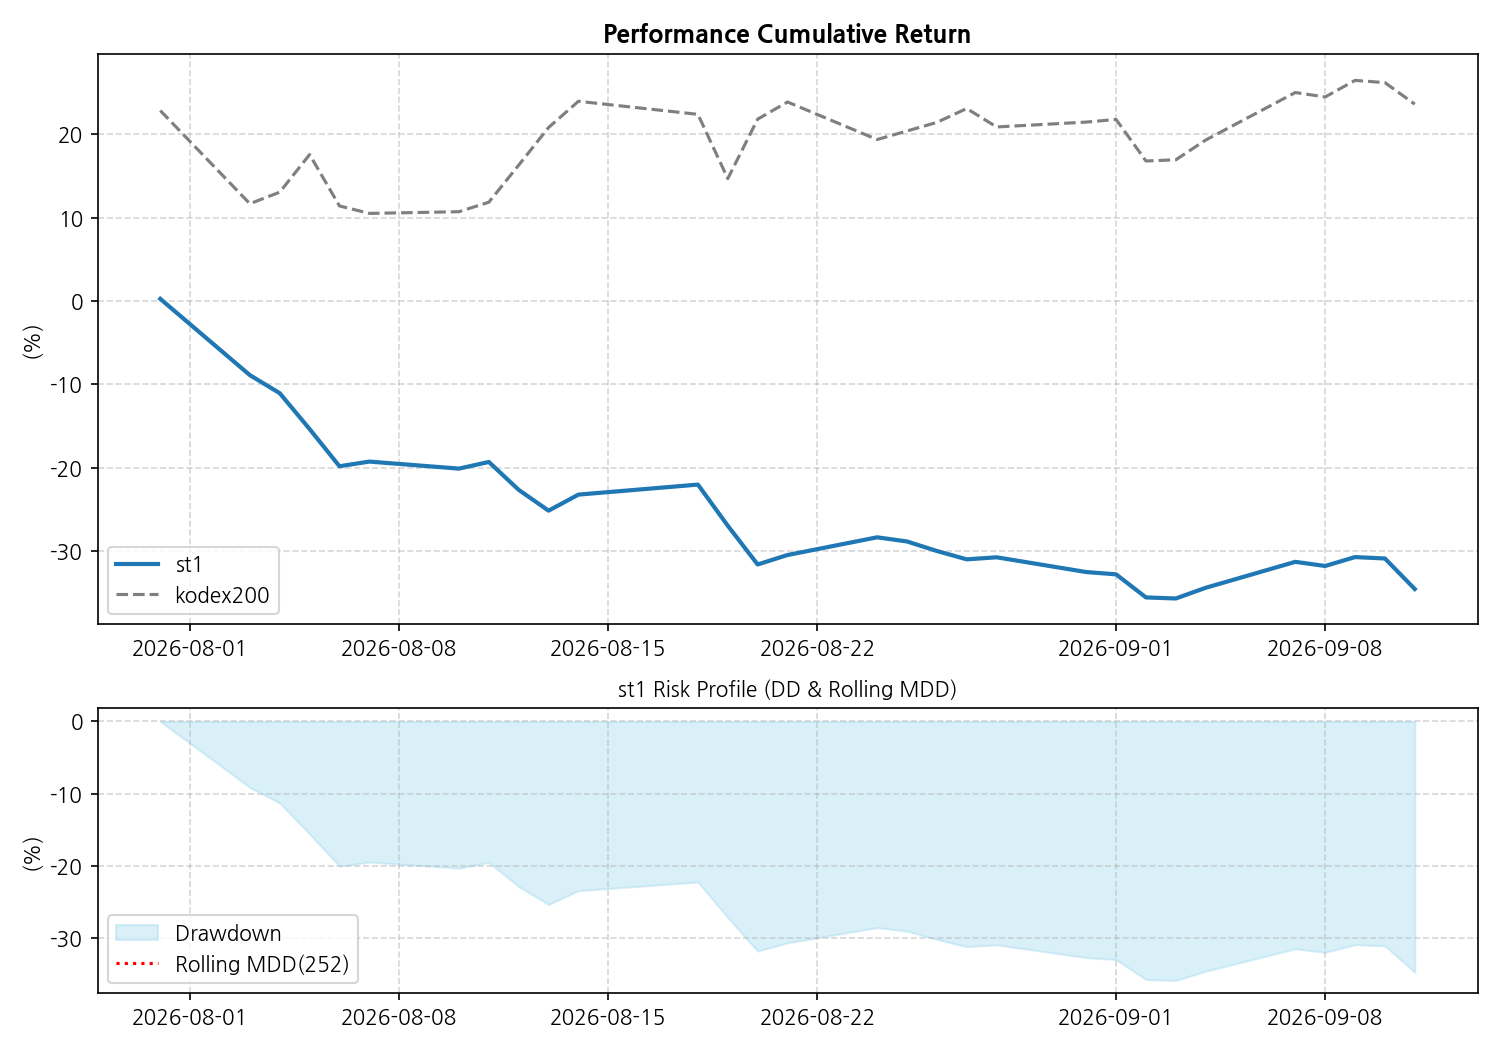
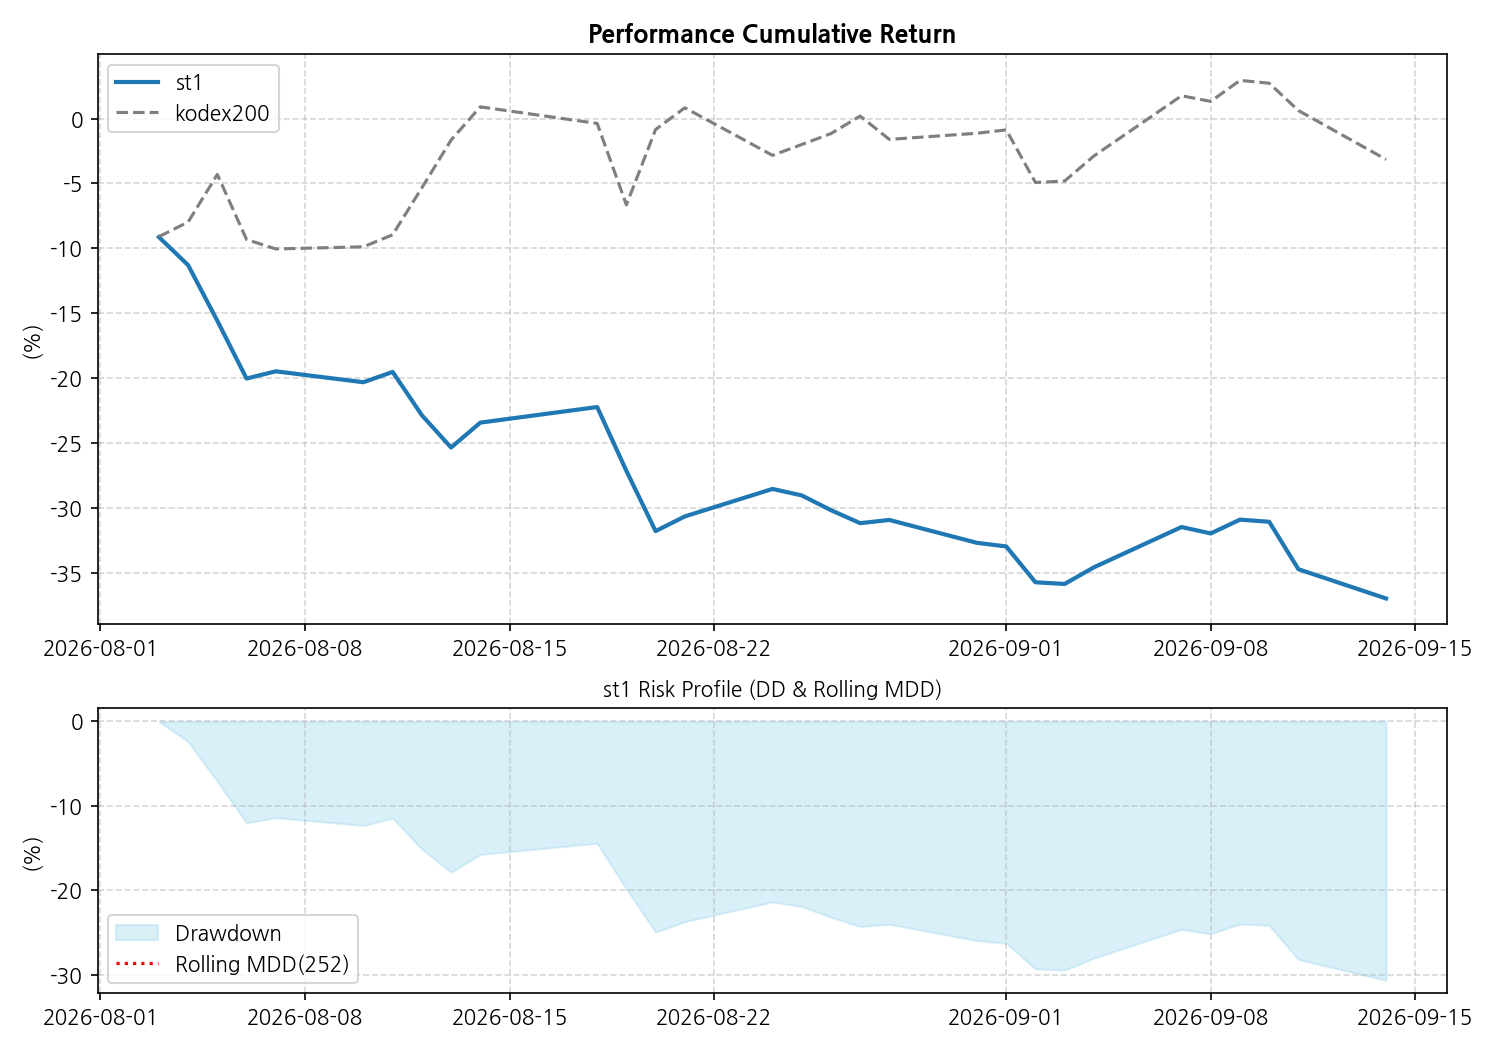
Auto commit

diff --git a/_pages/bt/bt_kodex.md b/_pages/bt/bt_kodex.md
@@ -2,7 +2,7 @@
 layout: post
 title: "BT, 오늘의 시그널(ETF)"
 author: Best Investor
-date: 2026-09-11
+date: 2026-09-14
 category: BT
 mermaid: true
 parent: 포트폴리오
@@ -14,14 +14,14 @@ parent: 포트폴리오
 
 | 지표 | 전략 1 (S1) | 전략 2 (S2) | 차이 (Diff) |
 | :--- | :---: | :---: | :---: |
-| **오늘 수익률** | -5.31% | -2.05% | -3.25% |
-| **30일 수익률** | -34.58% | 23.63% | -58.21% |
-| **1년 수익률** | 207.46% | 150.44% | 57.02% |
-| **전체 수익률** | 925.09% | 252.21% | 672.88% |
-| **MDD (1Y)** | -42.08% | -41.15% | -0.93%p |
-| **MDD (ALL)** | **-42.08%** | **-41.15%** | -0.93%p |
-| **샤프 (1Y)** | 2.55 | 1.85 | 0.7 |
-| **샤프 (ALL)** | **2.24** | **1.11** | 1.13 |
+| **오늘 수익률** | -3.46% | -3.75% | 0.29% |
+| **30일 수익률** | -37.0% | -3.15% | -33.85% |
+| **1년 수익률** | 196.63% | 145.19% | 51.44% |
+| **전체 수익률** | 857.57% | 237.95% | 619.62% |
+| **MDD (1Y)** | -43.09% | -41.15% | -1.94%p |
+| **MDD (ALL)** | **-43.09%** | **-41.15%** | -1.94%p |
+| **샤프 (1Y)** | 2.47 | 1.81 | 0.66 |
+| **샤프 (ALL)** | **2.18** | **1.07** | 1.11 |
 
 ## 📉 누적 성과 및 리스크 차트
 1. **최근 30일:** ![30일](/img_st/st_kodex_cum_risk_30d.png)

diff --git a/_posts/signal/2026-04-01-signal.md b/_posts/signal/2026-04-01-signal.md
@@ -7,6 +7,18 @@ category: Jekyll
 ---
 ## 시그널  
 
+### 📊 2026-09-15 Morning Trading Signal
+
+- 📅 날짜: 2026-09-15  
+- ⏰ 시간: 08:54  
+- 🧾 종목: **KODEX 인버스**  
+- 📉 포지션: **하방**
+
+##### 🧭 Execution Plan
+- 🚀 진입: 오늘 시가_진입(매수)
+- 🎯 청산: 오늘 종가_청산
+
+
 ### 📊 2026-09-14 Afternoon Trading Signal
 
 - 📅 날짜: 2026-09-14  
